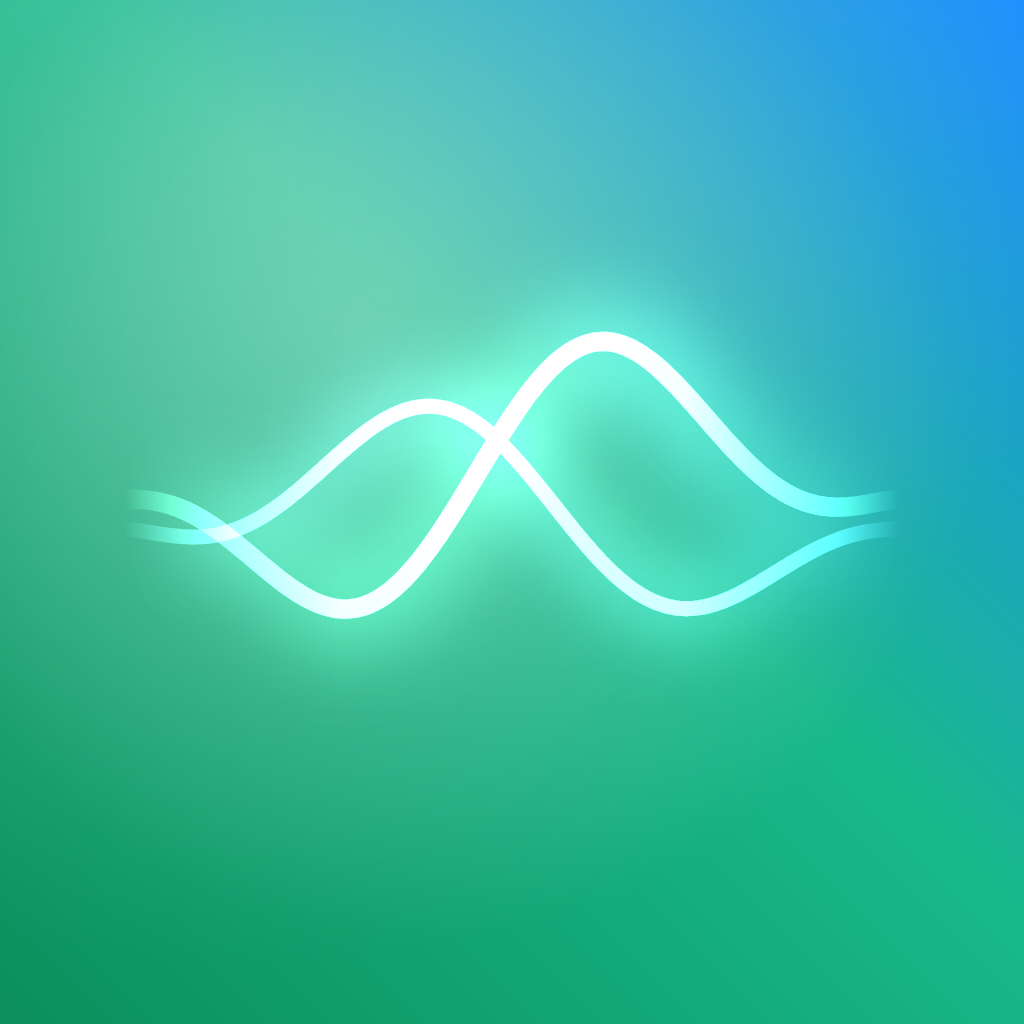
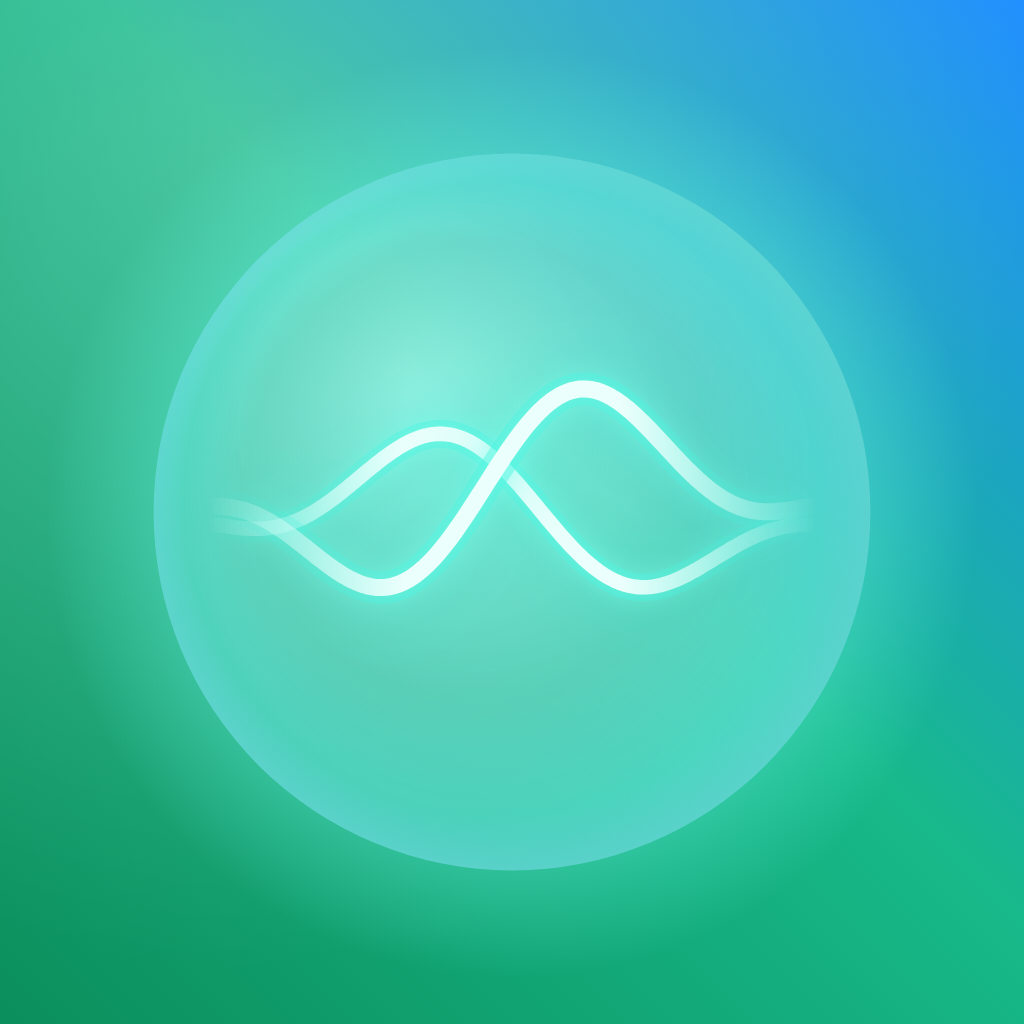
Значок приложения: светящийся шар Изи с волнами на градиенте (вариант А); цветные значки тем тоже с шаром; кэш значков v=6/v=3
Claude-Session: https://claude.ai/code/session_01WMZJrUvPUUAN9qFktwdjp2

Changed region(s): [[0.125, 0.1562, 0.875, 0.875]]

diff --git a/src/web/tools/icon_orb.html b/src/web/tools/icon_orb.html
@@ -74,5 +74,23 @@ V.flat=function(){ const o=window.ONE,cx=W/2,cy=W/2,R=W*.42; bg()
  const lt=x.createRadialGradient(cx-R*.35,cy-R*.45,0,cx-R*.2,cy-R*.25,R*1.25); lt.addColorStop(0,"rgba(255,255,255,.25)"); lt.addColorStop(1,"rgba(255,255,255,0)"); x.fillStyle=lt; x.fillRect(0,0,W,W)
  x.save(); x.globalCompositeOperation="lighter"; waveF(cx,cy+R*.04,R*1.8,R*.32,o.w1,.95,2.1,R*.035,R*.18); waveF(cx,cy-R*.03,R*1.8,R*.42,o.w2,1,0,R*.045,R*.22); x.restore() }
 
+// 2026-11-16: вариант А — светящийся полупрозрачный шар (как на слайдах презентации) на градиенте, внутри нынешние волны:
+// белая сердцевина + свечение, концы тают, без точек. Цвета: ONE.orb — оттенок шара, ONE.glow — свечение волн (для цветных значков).
+function orbAwave(cx,cy,len,amp,ph,lw,glow,gl){ const k=2.3,path=()=>{x.beginPath();for(let i=0;i<=240;i++){const u=i/240,env=Math.pow(Math.sin(Math.PI*u),1.5),px=cx-len/2+u*len,py=cy+amp*env*Math.sin(u*Math.PI*k+ph);i?x.lineTo(px,py):x.moveTo(px,py)}}
+ const fg=(rgb,a)=>{const g=x.createLinearGradient(cx-len/2,0,cx+len/2,0);g.addColorStop(0,`rgba(${rgb},0)`);g.addColorStop(.32,`rgba(${rgb},${a})`);g.addColorStop(.68,`rgba(${rgb},${a})`);g.addColorStop(1,`rgba(${rgb},0)`);return g}
+ x.lineCap="round";x.lineJoin="round"
+ path();x.strokeStyle=fg(gl[0],.45);x.lineWidth=lw*1.9;x.shadowColor=`rgba(${gl[0]},.95)`;x.shadowBlur=glow;x.stroke()
+ path();x.strokeStyle=fg("235,255,252",1);x.lineWidth=lw;x.shadowColor=`rgba(${gl[1]},1)`;x.shadowBlur=glow*.35;x.stroke();x.shadowBlur=0 }
+function orbAball(cx,cy,R,t){ const h=x.createRadialGradient(cx,cy,R*.85,cx,cy,R*1.3);h.addColorStop(0,`rgba(${t[0]},.4)`);h.addColorStop(1,`rgba(${t[0]},0)`);x.fillStyle=h;x.fillRect(0,0,W,W)
+ const q=document.createElement("canvas");q.width=q.height=W;const y=q.getContext("2d")
+ const b=y.createRadialGradient(cx-R*.25,cy-R*.3,R*.05,cx,cy,R);b.addColorStop(0,`rgba(${t[1]},.55)`);b.addColorStop(.62,`rgba(${t[2]},.32)`);b.addColorStop(.88,`rgba(${t[3]},.38)`);b.addColorStop(1,`rgba(${t[3]},.85)`)
+ y.fillStyle=b;y.beginPath();y.arc(cx,cy,R,0,7);y.fill();y.globalCompositeOperation="source-atop"
+ const l=y.createRadialGradient(cx-R*.32,cy-R*.4,0,cx-R*.32,cy-R*.4,R*.6);l.addColorStop(0,"rgba(255,255,255,.28)");l.addColorStop(1,"rgba(255,255,255,0)");y.fillStyle=l;y.fillRect(0,0,W,W)
+ const d=y.createRadialGradient(cx-R*.2,cy-R*.25,R*.55,cx,cy,R*1.05);d.addColorStop(0,"rgba(0,40,50,0)");d.addColorStop(1,"rgba(0,50,60,.2)");y.fillStyle=d;y.fillRect(0,0,W,W)
+ x.drawImage(q,0,0) }
+window.ONE.orb=["110,255,240","175,255,250","150,215,212","120,250,245"]; window.ONE.glow=["60,240,220","120,255,235"]
+V.orbA=function(){ const o=window.ONE,cx=W/2,cy=W/2,R=W*.35,S=R*1.7; bg(); orbAball(cx,cy,R,o.orb)
+ orbAwave(cx,cy+S*.02,S,S*.17,2.2,S*.024,S*.12,o.glow); orbAwave(cx,cy-S*.01,S,S*.22,0,S*.028,S*.14,o.glow) }
+
 window.draw=k=>{x.clearRect(0,0,W,W);V[k]()}
 </script>

diff --git a/src/web/index.html b/src/web/index.html
@@ -13,8 +13,8 @@
 <script>/* вход через Google: ответ приходит в адресе — забрать до app.js, чтобы он не принял его за команду */try{if(/(^|[#&])(id_token|error)=/.test(location.hash)&&/state=/.test(location.hash)){sessionStorage.setItem("izi-glogin",location.hash.slice(1));history.replaceState(null,"",location.pathname+location.search)}}catch(e){}</script>
 <script>/* подключение Google Календаря: Google возвращает ?code=…&state=… — забрать до app.js */try{if(/(^|[?&])(code|error)=/.test(location.search)&&/[?&]state=/.test(location.search)){sessionStorage.setItem("izi-gcal",location.search.slice(1));history.replaceState(null,"",location.pathname+location.hash)}}catch(e){}</script>
 <link rel="manifest" href="manifest.webmanifest">
-<link rel="apple-touch-icon" href="icon-180.png?v=5">
-<link rel="icon" href="icon-192.png?v=5">
+<link rel="apple-touch-icon" href="icon-180.png?v=6">
+<link rel="icon" href="icon-192.png?v=6">
 <link rel="stylesheet" href="style.css">
 <link rel="stylesheet" href="gami.css">
 <link rel="stylesheet" href="quest.css">

diff --git a/src/web/app.js b/src/web/app.js
@@ -250,7 +250,7 @@ let iziPainted = ""
 function iziPaint() {
   const p = iziCol(); if (iziPainted === p[0]) return; iziPainted = p[0]
   const st = document.documentElement.style; p[2].forEach((c, i) => st.setProperty("--izi" + (i + 1), c))
-  const l = document.querySelector('link[rel="apple-touch-icon"]'); if (l) l.href = p[0] === "em" ? "icon-180.png?v=5" : `icon-${p[0]}-180.png?v=2`   // значок берётся при добавлении на экран «Домой»
+  const l = document.querySelector('link[rel="apple-touch-icon"]'); if (l) l.href = p[0] === "em" ? "icon-180.png?v=6" : `icon-${p[0]}-180.png?v=3`   // значок берётся при добавлении на экран «Домой»
 }
 const proteinGoal = () => H().proteinGoal || Math.round((H().weight || 80) * 1.6)   // по умолчанию 1,6 г на кг веса
 const live = list => list.filter(x => x && !x.deleted)

diff --git a/src/web/tools/icons.py b/src/web/tools/icons.py
@@ -1,6 +1,6 @@
 #!/usr/bin/env python3
-"""Значки веб-приложения: одна сфера Изи — волны прямо на зелёном, без внутреннего стеклянного шара (2026-11-05): icon-180/192/512.png.
-Исходник 1024px — tools/icon-orb-1024.png, нарисован tools/icon_orb.html (draw("flat") в Chromium).
+"""Значки веб-приложения: светящийся шар Изи с волнами на зелёно-синем градиенте (вариант А, 2026-11-16): icon-180/192/512.png.
+Исходник 1024px — tools/icon-orb-1024.png, нарисован tools/icon_orb.html (draw("orbA") в Chromium).
 Квадрат без скруглений — iPhone скругляет сам."""
 import pathlib
 from PIL import Image
